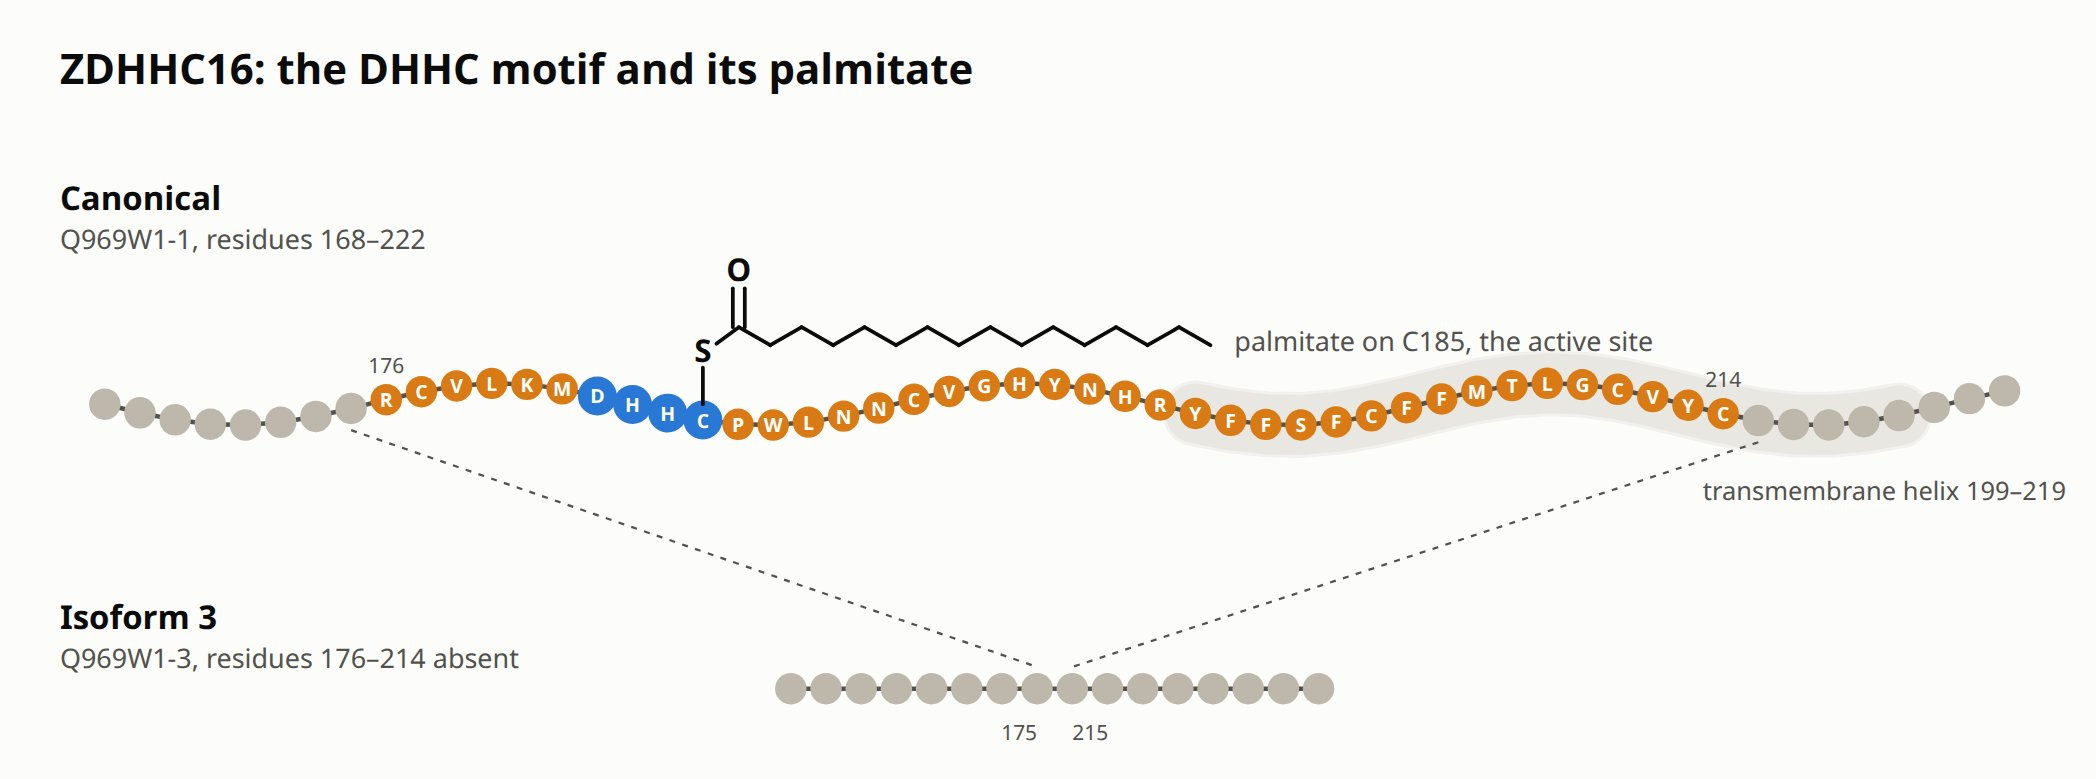
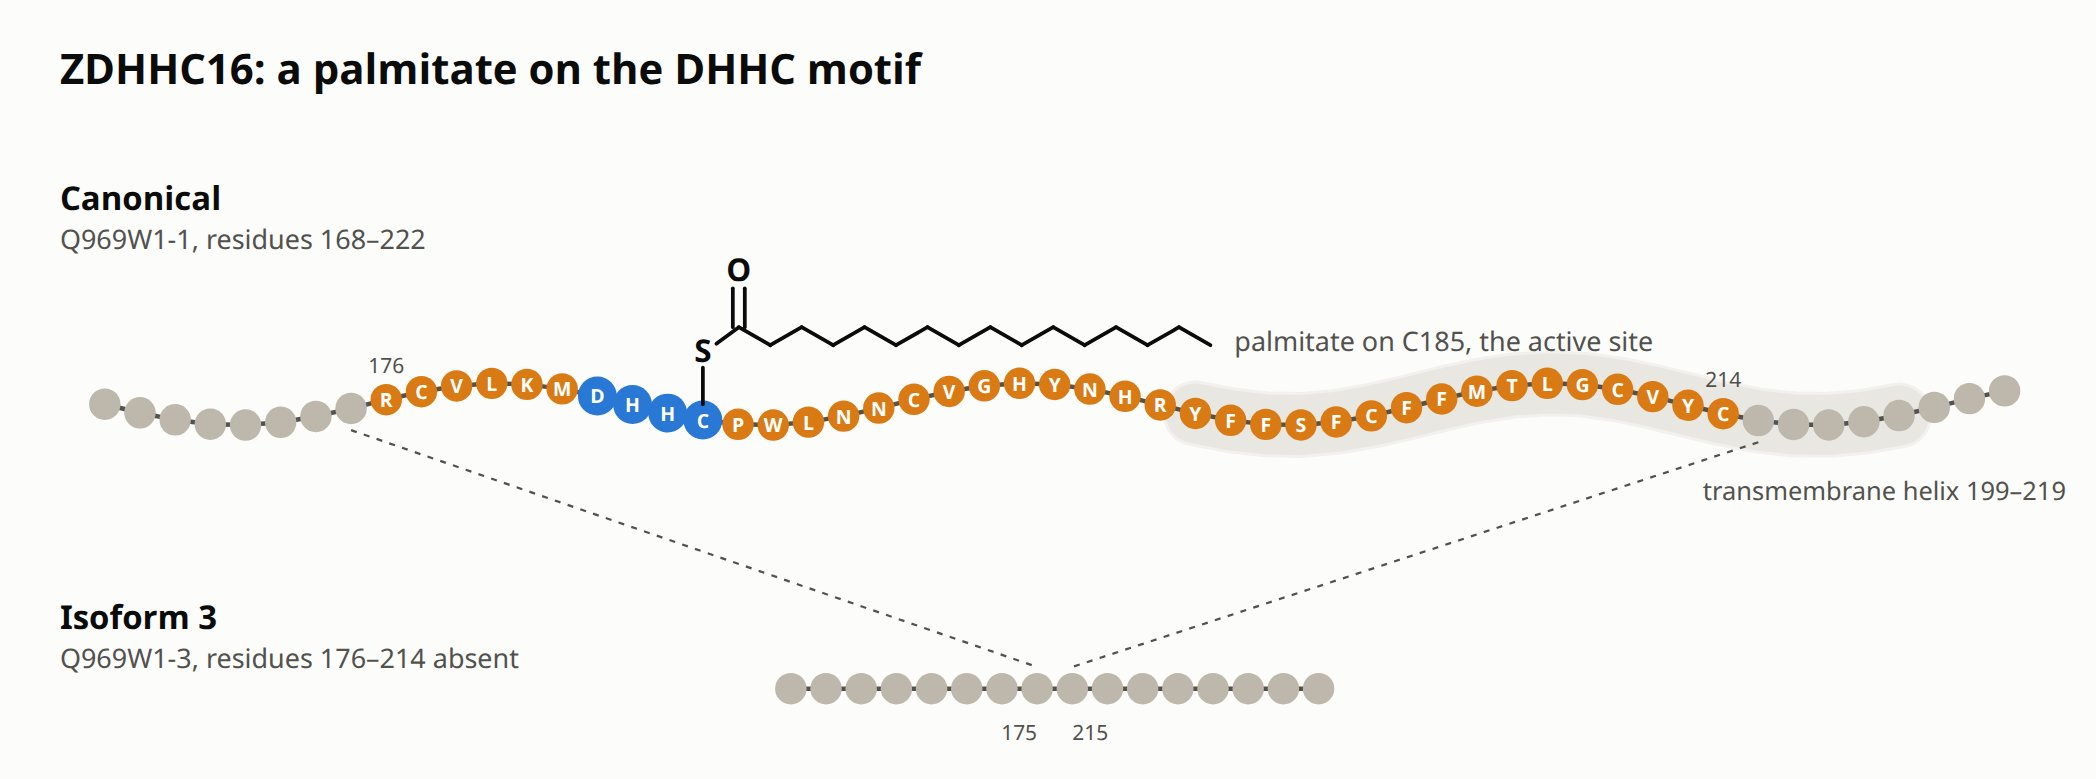
Blog: titles, descriptions and headings without agency for things
Reads no longer splice, exons no longer move start codons, estimates no
longer credit isoforms, and notes no longer say; a person or a plain
verb of description takes their place.

Changed region(s): [[0.124, 0.0616, 0.4652, 0.1232]]

diff --git a/web/lib/active-site-figure.ts b/web/lib/active-site-figure.ts
@@ -166,5 +166,5 @@ export function activeSiteFigure(
 .active-site-figure .label { font-size: 18px; fill: var(--text-2); text-anchor: start; }
 .active-site-figure .absent { font-size: 18px; font-weight: 600; fill: var(--caution); }
 .active-site-figure .title { font-size: 28px; font-weight: 650; fill: var(--text); text-anchor: start; }
-</style><text x="40" y="56" class="title">${esc(record.gene)}: the ${esc(motif)} motif and its palmitate</text><text x="40" y="${CANONICAL_Y - 130}" class="row">Canonical</text><text x="40" y="${CANONICAL_Y - 104}" class="label">${esc(record.canonical.accession)}, residues ${before[0]}–${after.at(-1)}</text><text x="40" y="${ISOFORM_Y - 40}" class="row">Isoform ${esc(isoform.name)}</text><text x="40" y="${ISOFORM_Y - 14}" class="label">${esc(accession)}, residues ${edit.start}–${edit.end} absent</text>${helixBand}${backbone(canonical)}${draw(canonical)}${number(canonical, [edit.start, edit.end], -18)}${acyl ? `${acyl.svg}<text x="${acyl.end.x + 16}" y="${acyl.end.y + 4}" class="label">palmitate on C${site.start}, the active site</text>` : ''}${backbone(shortened)}${draw(shortened)}${number(shortened, [edit.start - 1, edit.end + 1], 34, ['end', 'start'])}${joins}</svg>`
+</style><text x="40" y="56" class="title">${esc(record.gene)}: a palmitate on the ${esc(motif)} motif</text><text x="40" y="${CANONICAL_Y - 130}" class="row">Canonical</text><text x="40" y="${CANONICAL_Y - 104}" class="label">${esc(record.canonical.accession)}, residues ${before[0]}–${after.at(-1)}</text><text x="40" y="${ISOFORM_Y - 40}" class="row">Isoform ${esc(isoform.name)}</text><text x="40" y="${ISOFORM_Y - 14}" class="label">${esc(accession)}, residues ${edit.start}–${edit.end} absent</text>${helixBand}${backbone(canonical)}${draw(canonical)}${number(canonical, [edit.start, edit.end], -18)}${acyl ? `${acyl.svg}<text x="${acyl.end.x + 16}" y="${acyl.end.y + 4}" class="label">palmitate on C${site.start}, the active site</text>` : ''}${backbone(shortened)}${draw(shortened)}${number(shortened, [edit.start - 1, edit.end + 1], 34, ['end', 'start'])}${joins}</svg>`
 }
